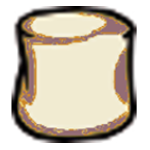
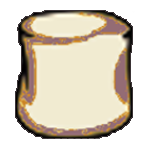
lamp is now window

Changed region(s): [[0.0533, 0.0267, 0.9333, 0.96]]

diff --git a/app/assets/javascripts/navbar.js b/app/assets/javascripts/navbar.js
@@ -2,6 +2,7 @@
 me = $(".navbar").data( "me");
 friend = $(".navbar").data( "friend");
 
+// Couch / House button toggle
 if (me === friend) {
   home = $('#home_option');
   console.log(home);
@@ -11,6 +12,7 @@ if (me === friend) {
   couch.parent().remove();
 }
 
+// Filter navbar items according to mode
 $( "#feed_option" ).click(function() {
   $(".navbar__specific__item").each(function(){
     if($(this).hasClass("navbar__specific--feed")){
@@ -48,7 +50,7 @@ $( "#setting_option" ).click(function() {
   });
 });
 
-//Select inside decorate
+//Select items from decorate mode categories
 $( ".navbar__specific__item--generic" ).each(function() {
     $(this).on("click", function(){
       str = $(this).attr('class').match(/navbar__specific__item--generic-[\w-][\w-]*\b/)[0].split("--")[2];

diff --git a/app/assets/stylesheets/components/_added_items.scss b/app/assets/stylesheets/components/_added_items.scss
@@ -60,7 +60,7 @@
   transform: rotate(0deg);
 }
 
-.added__items .toolbar__item--lamp{
+.added__items .toolbar__item--window{
   top: 25%;
   left: 27%;
   height: 8%;

diff --git a/db/seeds.rb b/db/seeds.rb
@@ -44,7 +44,7 @@ side_table1 = Item.create(category: "side_table", photo: "https://png.pngtree.co
 side_table1.save
 side_table2 = Item.create(category: "side_table", photo: "http://mudanzascompartidas.info/wp-content/uploads/2015/12/paraguero.png", user_id: "1")
 side_table2.save
-lamp1 = Item.create(category: "lamp", photo: "https://vignette.wikia.nocookie.net/warehouse13/images/4/47/Leg_Lamp.PNG/revision/latest?cb=20131021194904", user_id: "1")
-lamp1.save
-lamp2 = Item.create(category: "lamp", photo: "https://images.vexels.com/media/users/3/127183/isolated/preview/3c38623c01ddc3ad951a134e46d15f6b-blue-flat-lamp-stand-by-vexels.png", user_id: "1")
-lamp2.save
+window1 = Item.create(category: "window", photo: "https://vignette.wikia.nocookie.net/warehouse13/images/4/47/Leg_Lamp.PNG/revision/latest?cb=20131021194904", user_id: "1")
+window1.save
+window2 = Item.create(category: "window", photo: "https://images.vexels.com/media/users/3/127183/isolated/preview/3c38623c01ddc3ad951a134e46d15f6b-blue-flat-lamp-stand-by-vexels.png", user_id: "1")
+window2.save

diff --git a/db/schema.rb b/db/schema.rb
@@ -51,7 +51,7 @@ ActiveRecord::Schema.define(version: 2018_08_20_193343) do
     t.bigint "couch_item_id"
     t.bigint "table_item_id"
     t.bigint "side_table_item_id"
-    t.bigint "lamp_item_id"
+    t.bigint "window_item_id"
     t.bigint "plant_item_id"
     t.bigint "floor_item_id"
     t.bigint "wall_item_id"
@@ -61,7 +61,7 @@ ActiveRecord::Schema.define(version: 2018_08_20_193343) do
     t.index ["face_item_id"], name: "index_users_on_face_item_id"
     t.index ["floor_item_id"], name: "index_users_on_floor_item_id"
     t.index ["head_item_id"], name: "index_users_on_head_item_id"
-    t.index ["lamp_item_id"], name: "index_users_on_lamp_item_id"
+    t.index ["window_item_id"], name: "index_users_on_window_item_id"
     t.index ["neck_item_id"], name: "index_users_on_neck_item_id"
     t.index ["plant_item_id"], name: "index_users_on_plant_item_id"
     t.index ["reset_password_token"], name: "index_users_on_reset_password_token", unique: true

diff --git a/app/controllers/tranqs_controller.rb b/app/controllers/tranqs_controller.rb
@@ -11,7 +11,7 @@ class TranqsController < ApplicationController
     @couches = Item.couch_items
     @tables = Item.table_items
     @side_tables = Item.side_table_items
-    @lamps = Item.lamp_items
+    @windows = Item.window_items
     @plants = Item.plant_items
     @floors = Item.floor_items
     @walls = Item.wall_items
@@ -33,7 +33,7 @@ class TranqsController < ApplicationController
     when "couch" then update_couch
     when "table" then update_table
     when "side_table" then update_side_table
-    when "lamp" then update_lamp
+    when "window" then update_window
     when "plant" then update_plant
     when "floor" then update_floor
     when "wall" then update_wall
@@ -94,8 +94,8 @@ class TranqsController < ApplicationController
     @tranq.save
   end
 
-  def update_lamp
-    @tranq.lamp = @item
+  def update_window
+    @tranq.window = @item
     @tranq.save
   end
 

diff --git a/app/models/user.rb b/app/models/user.rb
@@ -13,7 +13,7 @@ class User < ApplicationRecord
   belongs_to :side_table, :class_name => 'Item', foreign_key: :side_table_item_id, optional: true
   belongs_to :floor, :class_name => 'Item', foreign_key: :floor_item_id, optional: true
   belongs_to :wall, :class_name => 'Item', foreign_key: :wall_item_id, optional: true
-  belongs_to :lamp, :class_name => 'Item', foreign_key: :lamp_item_id, optional: true
+  belongs_to :window, :class_name => 'Item', foreign_key: :window_item_id, optional: true
   belongs_to :plant, :class_name => 'Item', foreign_key: :plant_item_id, optional: true
 
   # validate :items_are_correct_category

diff --git a/app/models/item.rb b/app/models/item.rb
@@ -7,7 +7,7 @@ class Item < ApplicationRecord
   scope :couch_items, -> { where(category: "couch") }
   scope :table_items, -> { where(category: "table") }
   scope :side_table_items, -> { where(category: "side_table") }
-  scope :lamp_items, -> { where(category: "lamp") }
+  scope :window_items, -> { where(category: "window") }
   scope :plant_items, -> { where(category: "plant") }
   scope :floor_items, -> { where(category: "floor") }
   scope :wall_items, -> { where(category: "wall") }

diff --git a/db/migrate/20180820193313_add_custom_to_users.rb b/db/migrate/20180820193313_add_custom_to_users.rb
@@ -10,7 +10,7 @@ class AddCustomToUsers < ActiveRecord::Migration[5.2]
     add_reference :users, :couch_item
     add_reference :users, :table_item
     add_reference :users, :side_table_item
-    add_reference :users, :lamp_item
+    add_reference :users, :window_item
     add_reference :users, :plant_item
     add_reference :users, :floor_item
     add_reference :users, :wall_item
